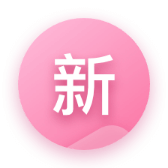
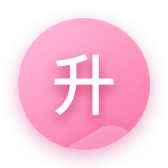
fix：修复客服模块的闪退

Changed region(s): [[0.2976, 0.2976, 0.6845, 0.7143]]

diff --git a/src/pages/mine/page/MinePage.js b/src/pages/mine/page/MinePage.js
@@ -597,7 +597,7 @@ export default class MinePage extends BasePage {
         return (
             <ScrollView showsVerticalScrollIndicator={false}
                         onScroll={this._onScroll.bind(this)}
-                        scrollEventThrottle={30}
+                        scrollEventThrottle={200}
                         refreshControl={
                             <RefreshControl
                                 refreshing={this.state.isRefreshing}

diff --git a/src/pages/home/Modules.js b/src/pages/home/Modules.js
@@ -25,7 +25,7 @@ class ClassifyModules {
         this.classifyList = [{
             icon: shareImg,
             img: OssHelper('/app/share11.png'),
-            name: '上新',
+            name: '升级',
             id: 1,
             route: 'topic/DownPricePage',
             linkTypeCode: 'ZT2019000029'

diff --git a/android/commonlib/src/main/java/com/meeruu/commonlib/rn/QiyuImageLoader.java b/android/commonlib/src/main/java/com/meeruu/commonlib/rn/QiyuImageLoader.java
@@ -1,9 +1,10 @@
 package com.meeruu.commonlib.rn;
 
+import android.annotation.SuppressLint;
 import android.content.Context;
 import android.graphics.Bitmap;
 import android.net.Uri;
-import android.os.AsyncTask;
+import android.os.Looper;
 
 import com.facebook.common.executors.UiThreadImmediateExecutorService;
 import com.facebook.common.references.CloseableReference;
@@ -16,13 +17,22 @@ import com.facebook.imagepipeline.image.CloseableBitmap;
 import com.facebook.imagepipeline.image.CloseableImage;
 import com.facebook.imagepipeline.request.ImageRequest;
 import com.facebook.imagepipeline.request.ImageRequestBuilder;
+import com.meeruu.commonlib.handler.WeakHandler;
+import com.meeruu.commonlib.utils.BitmapUtils;
 import com.qiyukf.unicorn.api.ImageLoaderListener;
 import com.qiyukf.unicorn.api.UnicornImageLoader;
 
+import java.util.concurrent.Callable;
+import java.util.concurrent.ExecutorService;
+import java.util.concurrent.Executors;
+import java.util.concurrent.Future;
+
 import javax.annotation.Nullable;
 
+@SuppressLint("StaticFieldLeak")
 public class QiyuImageLoader implements UnicornImageLoader {
     private Context context;
+    private ExecutorService executeBackgroundTask = Executors.newSingleThreadExecutor();
 
     public QiyuImageLoader(Context context) {
         this.context = context.getApplicationContext();
@@ -61,51 +71,80 @@ public class QiyuImageLoader implements UnicornImageLoader {
     }
 
     @Override
-    public void loadImage(String uri, int width, int height, final ImageLoaderListener listener) {
-        ImageRequestBuilder builder = ImageRequestBuilder.newBuilderWithSource(Uri.parse(uri));
+    public void loadImage(String url, int width, int height, final ImageLoaderListener listener) {
+        Uri uri = Uri.parse(url);
+        ImageRequestBuilder requestBuilder = ImageRequestBuilder.newBuilderWithSource(uri);
         if (width > 0 && height > 0) {
-            builder.setResizeOptions(new ResizeOptions(width, height));
+            requestBuilder.setResizeOptions(new ResizeOptions(width, height));
+        } else {
+            requestBuilder.setResizeOptions(new ResizeOptions(100, 100));
         }
-        ImageRequest imageRequest = builder.build();
-
-        ImagePipeline imagePipeline = Fresco.getImagePipeline();
-        DataSource<CloseableReference<CloseableImage>> dataSource = imagePipeline.fetchDecodedImage(imageRequest, context);
-
-        BaseBitmapDataSubscriber subscriber = new BaseBitmapDataSubscriber() {
-            @Override
-            public void onNewResultImpl(@Nullable Bitmap bitmap) {
-                if (listener != null) {
-                    new AsyncTask<Bitmap, Void, Bitmap>() {
-                        @Override
-                        protected Bitmap doInBackground(Bitmap... params) {
-                            Bitmap bitmap = params[0];
-                            Bitmap result = null;
-                            if (bitmap != null && !bitmap.isRecycled()) {
-                                result = bitmap.copy(Bitmap.Config.RGB_565, false);
-                            }
-                            return result;
+        ImageRequest imageRequest = requestBuilder
+                .setLocalThumbnailPreviewsEnabled(true)
+                .build();
+        DataSource<CloseableReference<CloseableImage>> dataSource = Fresco.getImagePipeline().fetchDecodedImage(imageRequest, null);
+        dataSource.subscribe(
+                new BaseBitmapDataSubscriber() {
+                    @Override
+                    public void onNewResultImpl(@Nullable final Bitmap bitmap) {
+                        if (listener == null) {
+                            return;
                         }
-
-                        @Override
-                        protected void onPostExecute(Bitmap bitmap) {
-                            if (bitmap != null) {
-                                listener.onLoadComplete(bitmap);
-                            } else {
-                                listener.onLoadFailed(null);
-                            }
+                        if (bitmap != null && !bitmap.isRecycled()) {
+                            handlerBackgroundTask(new Callable<Bitmap>() {
+                                @Override
+                                public Bitmap call() {
+                                    final Bitmap resultBitmap = bitmap.copy(Bitmap.Config.RGB_565, false);
+                                    if (resultBitmap != null && !resultBitmap.isRecycled()) {
+                                        postResult(resultBitmap, listener);
+                                    }
+                                    return resultBitmap;
+                                }
+                            });
                         }
-                    }.execute(bitmap);
-                }
-            }
+                    }
 
-            @Override
-            public void onFailureImpl(DataSource dataSource) {
-                if (listener != null) {
-                    listener.onLoadFailed(dataSource.getFailureCause());
-                }
-            }
-        };
+                    @Override
+                    public void onFailureImpl(DataSource dataSource) {
+                        if (listener == null) {
+                            return;
+                        }
+                        Throwable throwable = null;
+                        if (dataSource != null) {
+                            throwable = dataSource.getFailureCause();
+                        }
+                        listener.onLoadFailed(throwable);
+                    }
+                }, UiThreadImmediateExecutorService.getInstance());
+    }
 
-        dataSource.subscribe(subscriber, UiThreadImmediateExecutorService.getInstance());
+    /**
+     * @param callable Callable
+     * @param <T>      T
+     * @return Future
+     */
+    private <T> Future<T> handlerBackgroundTask(Callable<T> callable) {
+        return executeBackgroundTask.submit(callable);
+    }
+
+    /**
+     * 回调UI线程中去
+     *
+     * @param result   result
+     * @param callback FrescoBitmapCallback
+     * @param <T>      T
+     */
+    private <T> void postResult(final T result, final ImageLoaderListener callback) {
+        final Bitmap bmp = BitmapUtils.compressBitmap((Bitmap) result, 200);
+        if (bmp != null && !bmp.isRecycled()) {
+            new WeakHandler(Looper.getMainLooper()).post(new Runnable() {
+                @Override
+                public void run() {
+                    callback.onLoadComplete(bmp);
+                }
+            });
+        } else {
+            callback.onLoadFailed(null);
+        }
     }
 }

diff --git a/android/app/src/main/java/com/meeruu/sharegoods/MainActivity.java b/android/app/src/main/java/com/meeruu/sharegoods/MainActivity.java
@@ -118,7 +118,7 @@ public class MainActivity extends BaseActivity {
         if (!TextUtils.isEmpty(hostJson)) {
             JSONObject object = JSON.parseObject(hostJson);
             ossHost = object.getString("oss");
-            String url = ossHost + "/app/start_adv_bg.png?" + System.currentTimeMillis();
+            String url = ossHost + "/app/start_adv_bg.png";
             LoadingAdv(url);
         } else {
             hasAdResp = true;
@@ -176,7 +176,7 @@ public class MainActivity extends BaseActivity {
                             stub.inflate();
                             ivAdvBg = findViewById(R.id.iv_adv_bg);
                             tvGo = findViewById(R.id.tv_go);
-                            ImageLoadUtils.loadNetImage((String) msg.obj, ivAdvBg);
+                            ImageLoadUtils.loadNetImage((String) msg.obj + "?" + System.currentTimeMillis(), ivAdvBg);
                             ivAdv = findViewById(R.id.iv_adv);
                             String url = ossHost + "/app/start_adv.png?" + System.currentTimeMillis();
                             ImageLoadUtils.loadScaleTypeNetImage(url, ivAdv,

diff --git a/android/commonlib/src/main/java/com/meeruu/commonlib/config/FrescoImagePipelineConfig.java b/android/commonlib/src/main/java/com/meeruu/commonlib/config/FrescoImagePipelineConfig.java
@@ -69,7 +69,7 @@ public class FrescoImagePipelineConfig {
                             MAX_CACHE_ENTRIES,                     // 最大总图片缓存数量
                             maxCacheSize / 3,    // 准备清除的总图片最大空间
                             MAX_CACHE_EVICTION_ENTRIES,            // 准备清除的总图片最大数量
-                            maxCacheSize / 5);     // 单个图片最大大小
+                            maxCacheSize / 2);     // 单个图片最大大小
                 } else {
                     return new MemoryCacheParams(
                             maxCacheSize,

diff --git a/android/qiyu_service/src/com/meeruu/qiyu/activity/QiyuServiceMessageActivity.java b/android/qiyu_service/src/com/meeruu/qiyu/activity/QiyuServiceMessageActivity.java
@@ -4,10 +4,10 @@ import android.os.Bundle;
 import android.view.View;
 import android.widget.LinearLayout;
 
-import com.qiyukf.unicorn.R;
 import com.meeruu.qiyu.ScreenUtils;
 import com.meeruu.qiyu.SoftKeyboardFixerForFullscreen;
 import com.meeruu.qiyu.StatusBarUtils;
+import com.qiyukf.unicorn.R;
 import com.qiyukf.unicorn.ui.activity.ServiceMessageActivity;
 
 public class QiyuServiceMessageActivity extends ServiceMessageActivity {

diff --git a/android/commonlib/src/main/java/com/meeruu/commonlib/utils/ParameterUtils.java b/android/commonlib/src/main/java/com/meeruu/commonlib/utils/ParameterUtils.java
@@ -46,7 +46,7 @@ public class ParameterUtils {
     public static final int TIMER_START = 40;
     public static final int REQUEST_CODE_CHANGEPHOTO = 41; //更换照片请求码
     public static final int REQUEST_CODE_CLIP_OVER = 43; //剪裁照片请求码
-    public static final int EMPTY_WHAT_DELAY = 44;
+    public static final int QIYU_IMG = 44;
     /**
      * 一般图片url宽高
      */
